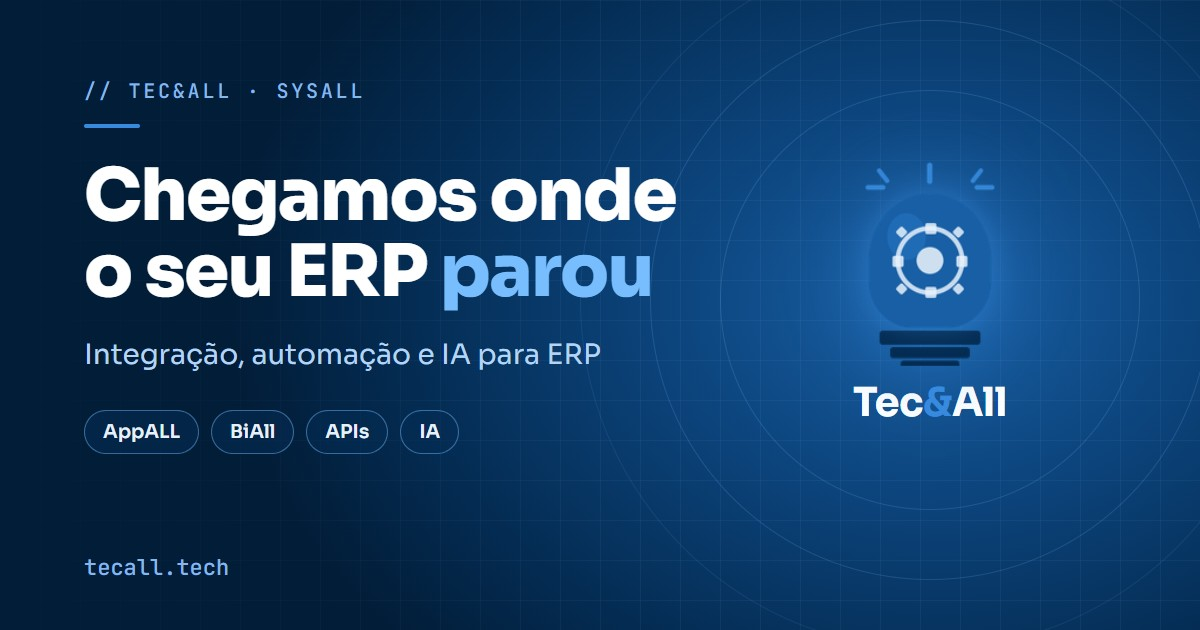
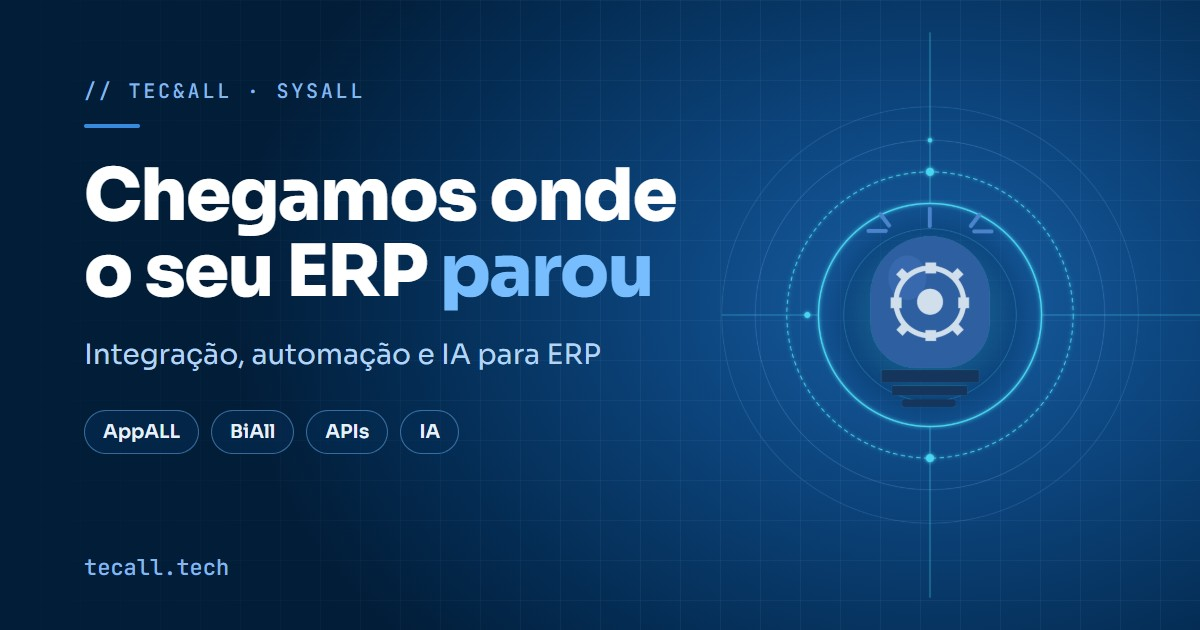
Site: símbolo oficial (lâmpada com engrenagem) no topo e na prévia do link

diff --git a/index.html b/index.html
@@ -307,7 +307,7 @@ section {
 #hero .stat-label { color: #B5D4F4; }
 #hero .hero-stats { border-top-color: rgba(207,230,255,0.15); }
 .hero-arte img { width: 100%; height: auto; display: block;
-  -webkit-mask-image: radial-gradient(circle at 50% 50%, #000 42%, transparent 57%); mask-image: radial-gradient(circle at 50% 50%, #000 42%, transparent 57%); }
+  }
 /* PLATAFORMA */
 #plataforma {
   border-top: 1px solid rgba(255,255,255,0.05);
@@ -551,7 +551,7 @@ footer {
       </div>
     </div>
   </div>
-  <div class="hero-arte"><img src="img/hero-lampada.webp" alt="Lâmpada da Tec&amp;All com anéis de conexão" width="760" height="760"></div>
+  <div class="hero-arte"><img src="img/hero-lampada.webp" alt="Símbolo da Tec&amp;All, a lâmpada com engrenagem, com anéis de conexão" width="760" height="760"></div>
   </div>
 </section>
 
